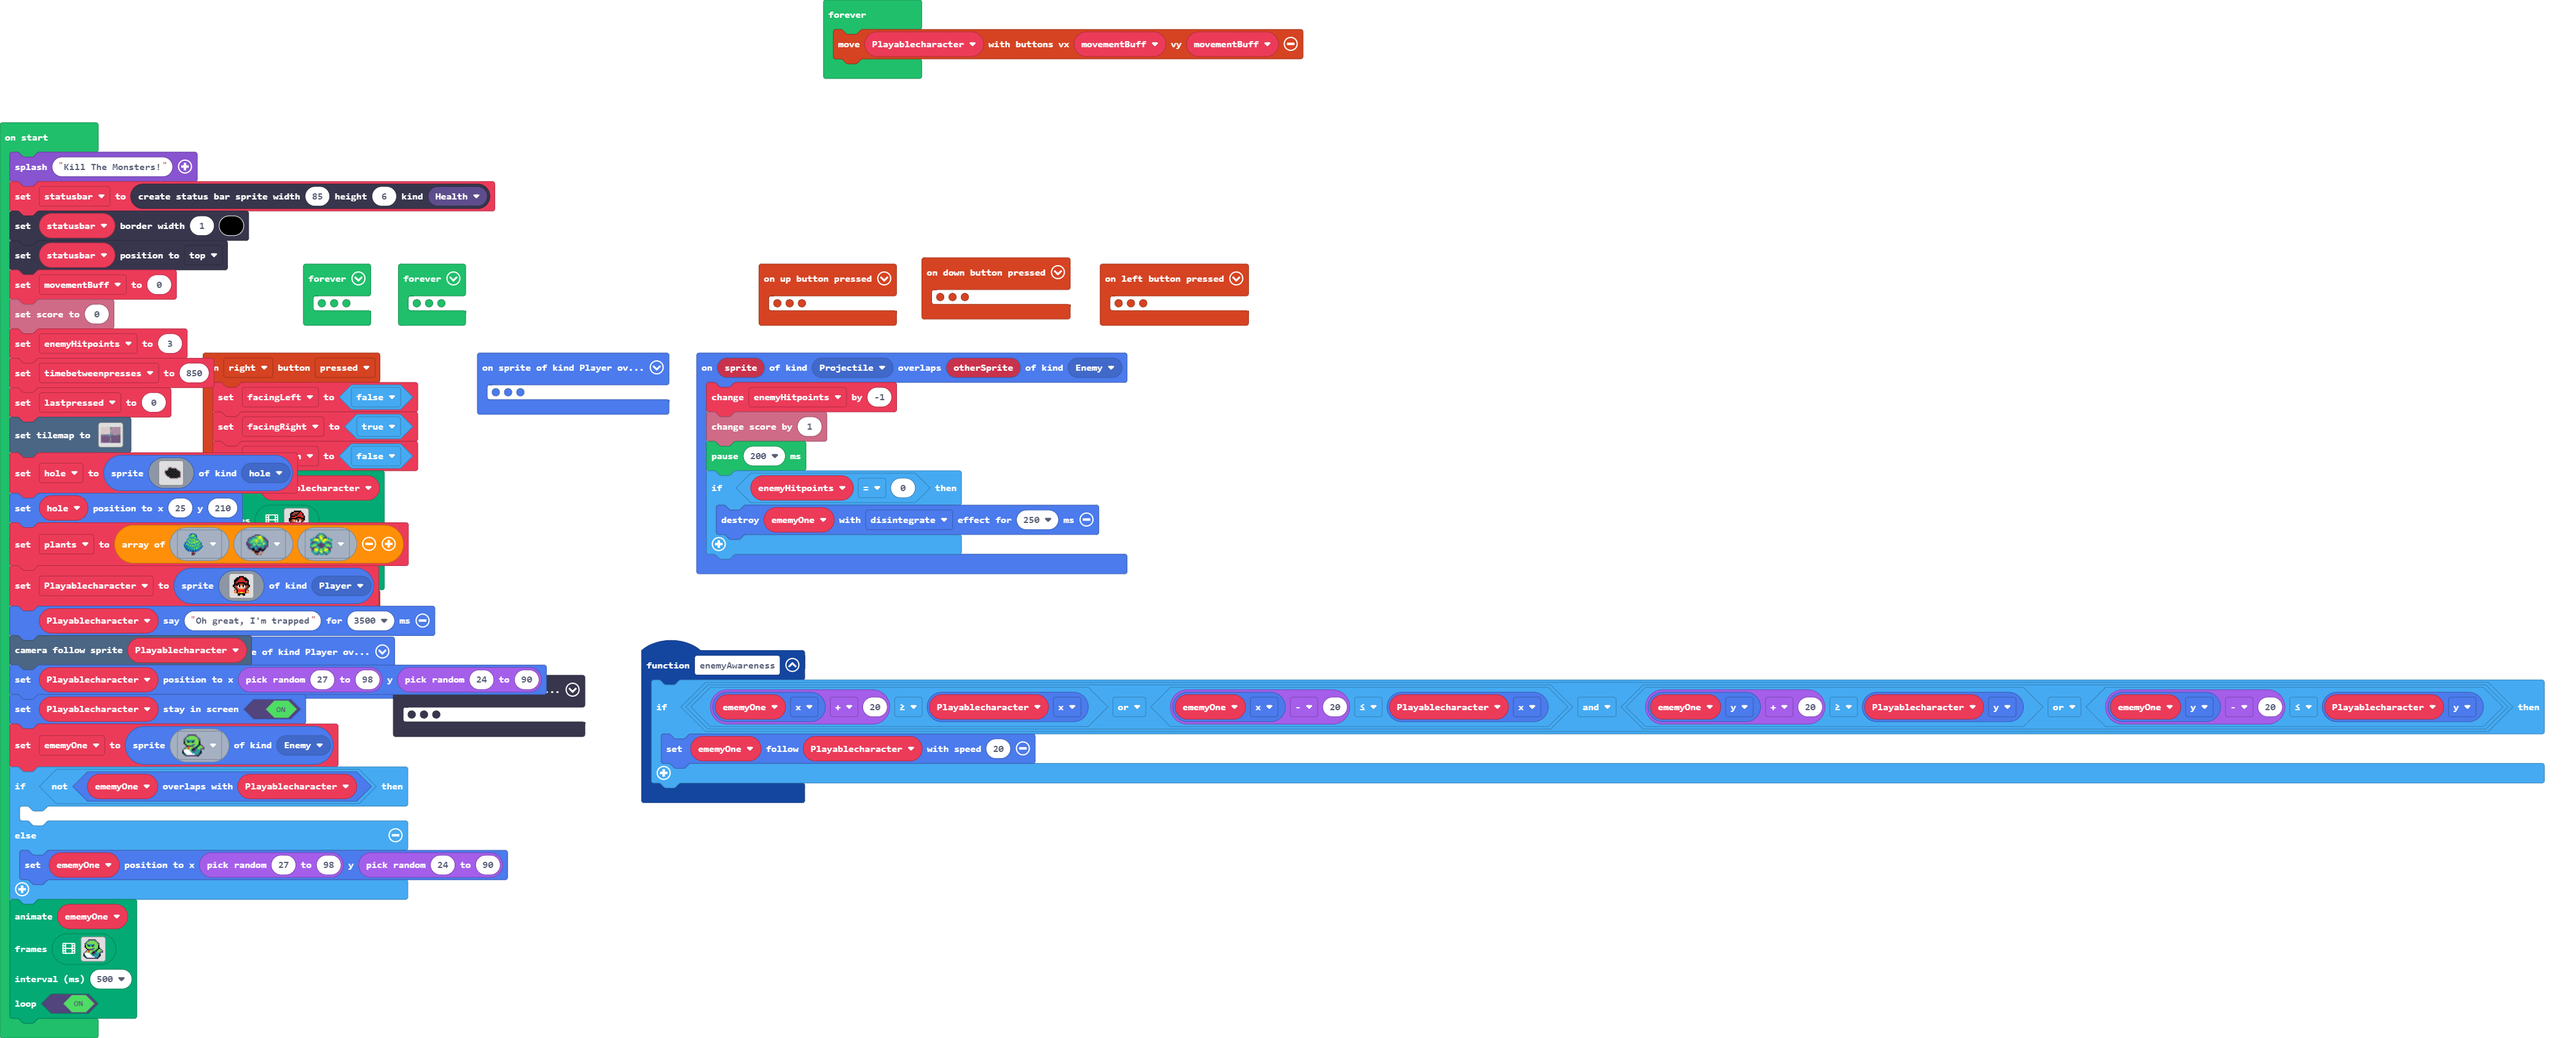
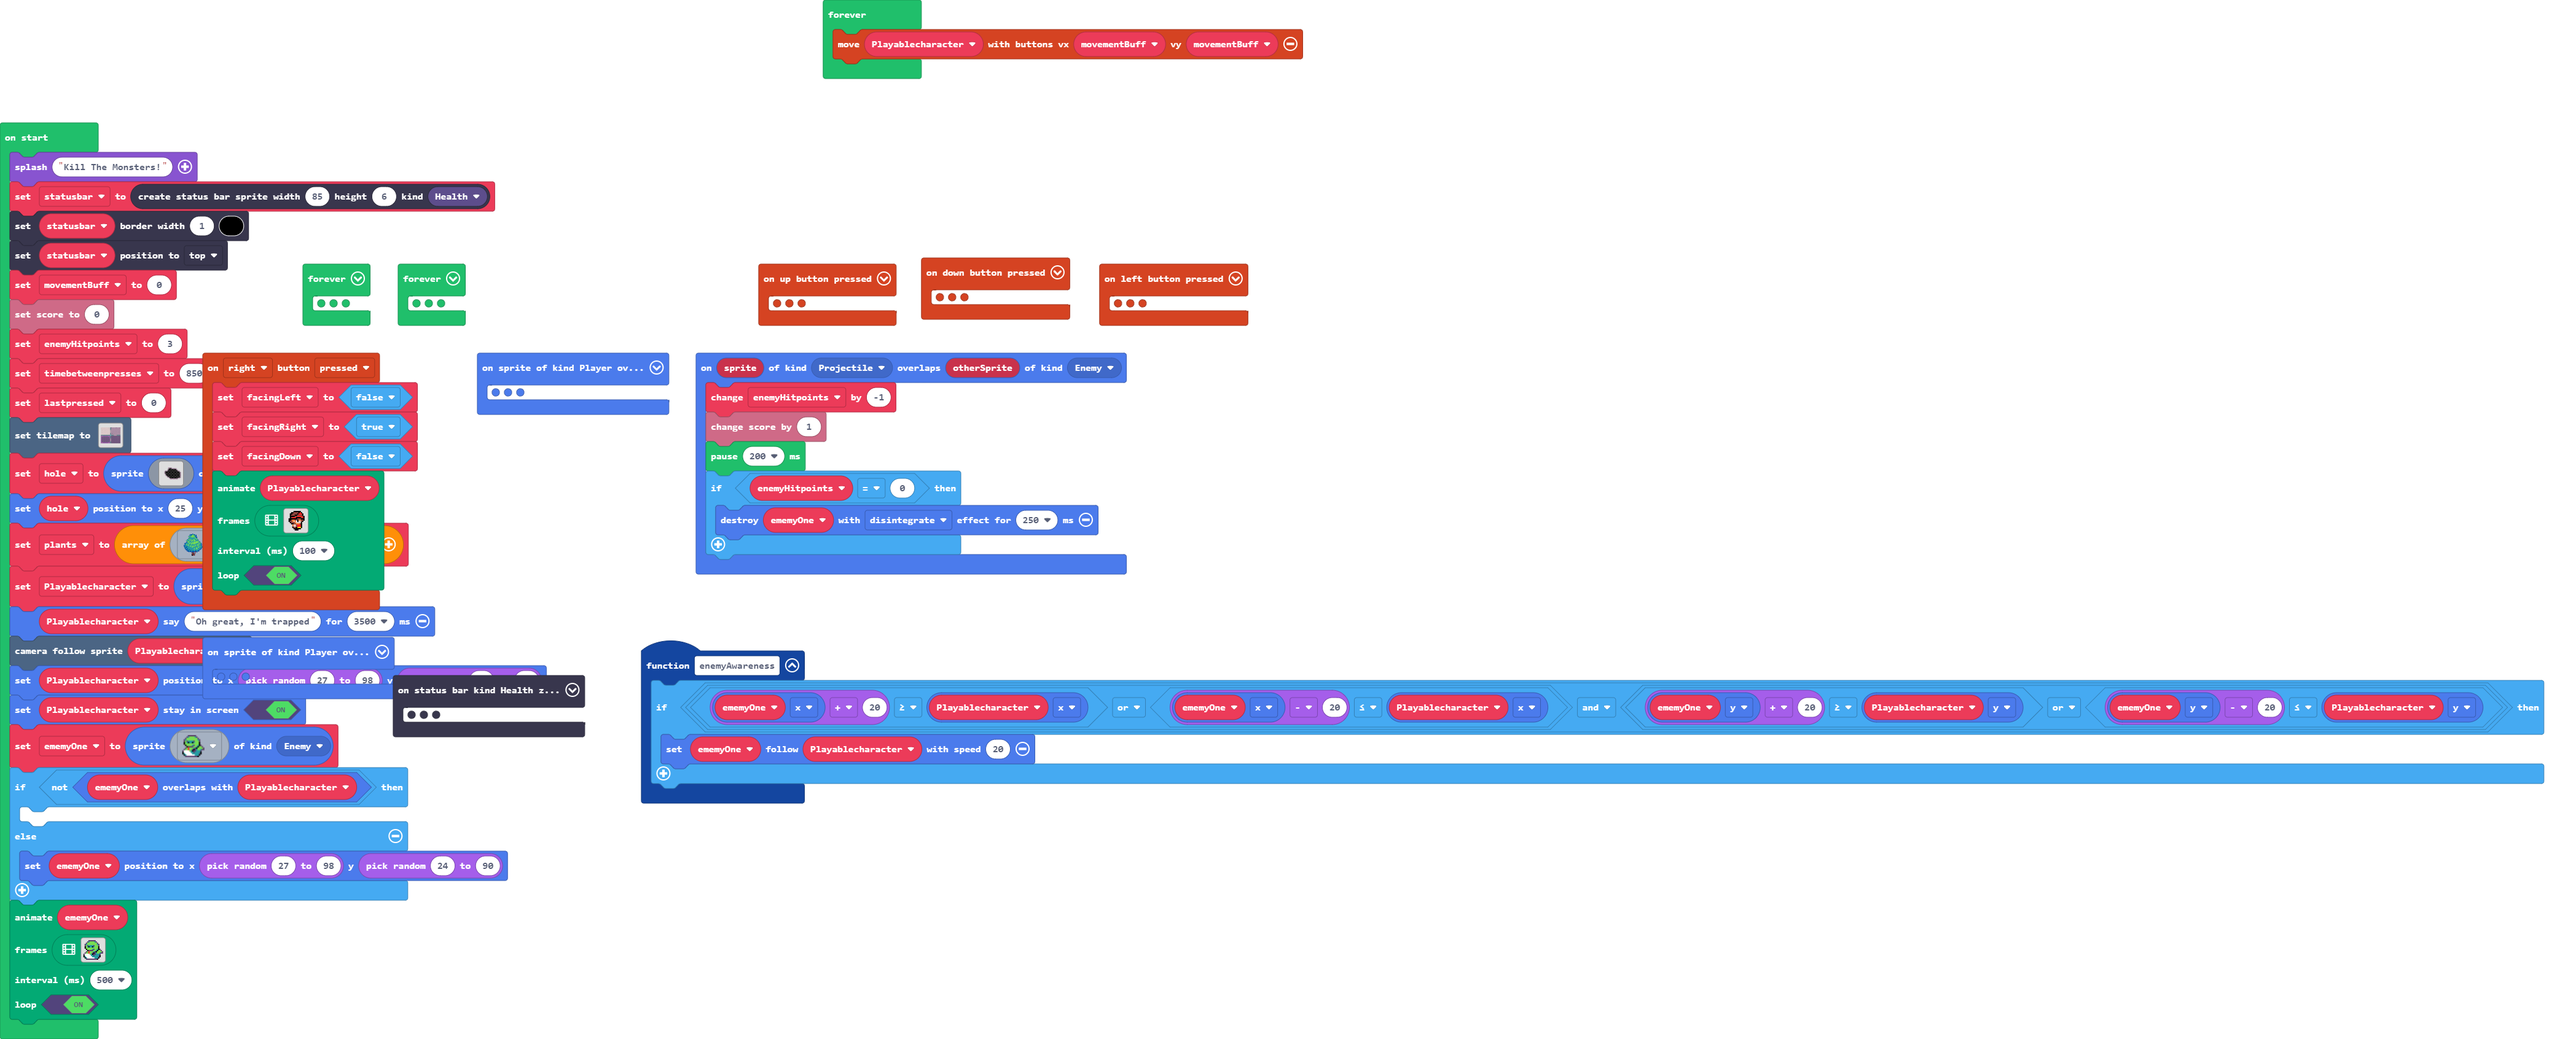
Update main.blocks, tilemap.g.jres, tilemap.g.ts

diff --git a/tilemap.g.ts b/tilemap.g.ts
@@ -238,6 +238,25 @@ namespace myTiles {
 . . . . . . . . . . . . . . . . 
 . . . . . . . . . . . . . . . . 
 `, [myTiles.transparency16], TileScale.Sixteen);
+            case "level8":
+            case "level8":return tiles.createTilemap(hex`1000100000000000000000000000000000000000000000000000000000000000000000000000000000000000000000000000000000000000000000000000000000000000000000000000000000000000000000000000000000000000000000000000000000000000000000000000000000000000000000000000000000000000000000000000000000000000000000000000000000000000000000000000000000000000000000000000000000000000000000000000000000000000000000000000000000000000000000000000000000000000000000000000000000000000000000000000000000000000000000000000000000000000000000000000000000000000`, img`
+. . . . . . . . . . . . . . . . 
+. . . . . . . . . . . . . . . . 
+. . . . . . . . . . . . . . . . 
+. . . . . . . . . . . . . . . . 
+. . . . . . . . . . . . . . . . 
+. . . . . . . . . . . . . . . . 
+. . . . . . . . . . . . . . . . 
+. . . . . . . . . . . . . . . . 
+. . . . . . . . . . . . . . . . 
+. . . . . . . . . . . . . . . . 
+. . . . . . . . . . . . . . . . 
+. . . . . . . . . . . . . . . . 
+. . . . . . . . . . . . . . . . 
+. . . . . . . . . . . . . . . . 
+. . . . . . . . . . . . . . . . 
+. . . . . . . . . . . . . . . . 
+`, [myTiles.transparency16], TileScale.Sixteen);
         }
         return null;
     })
